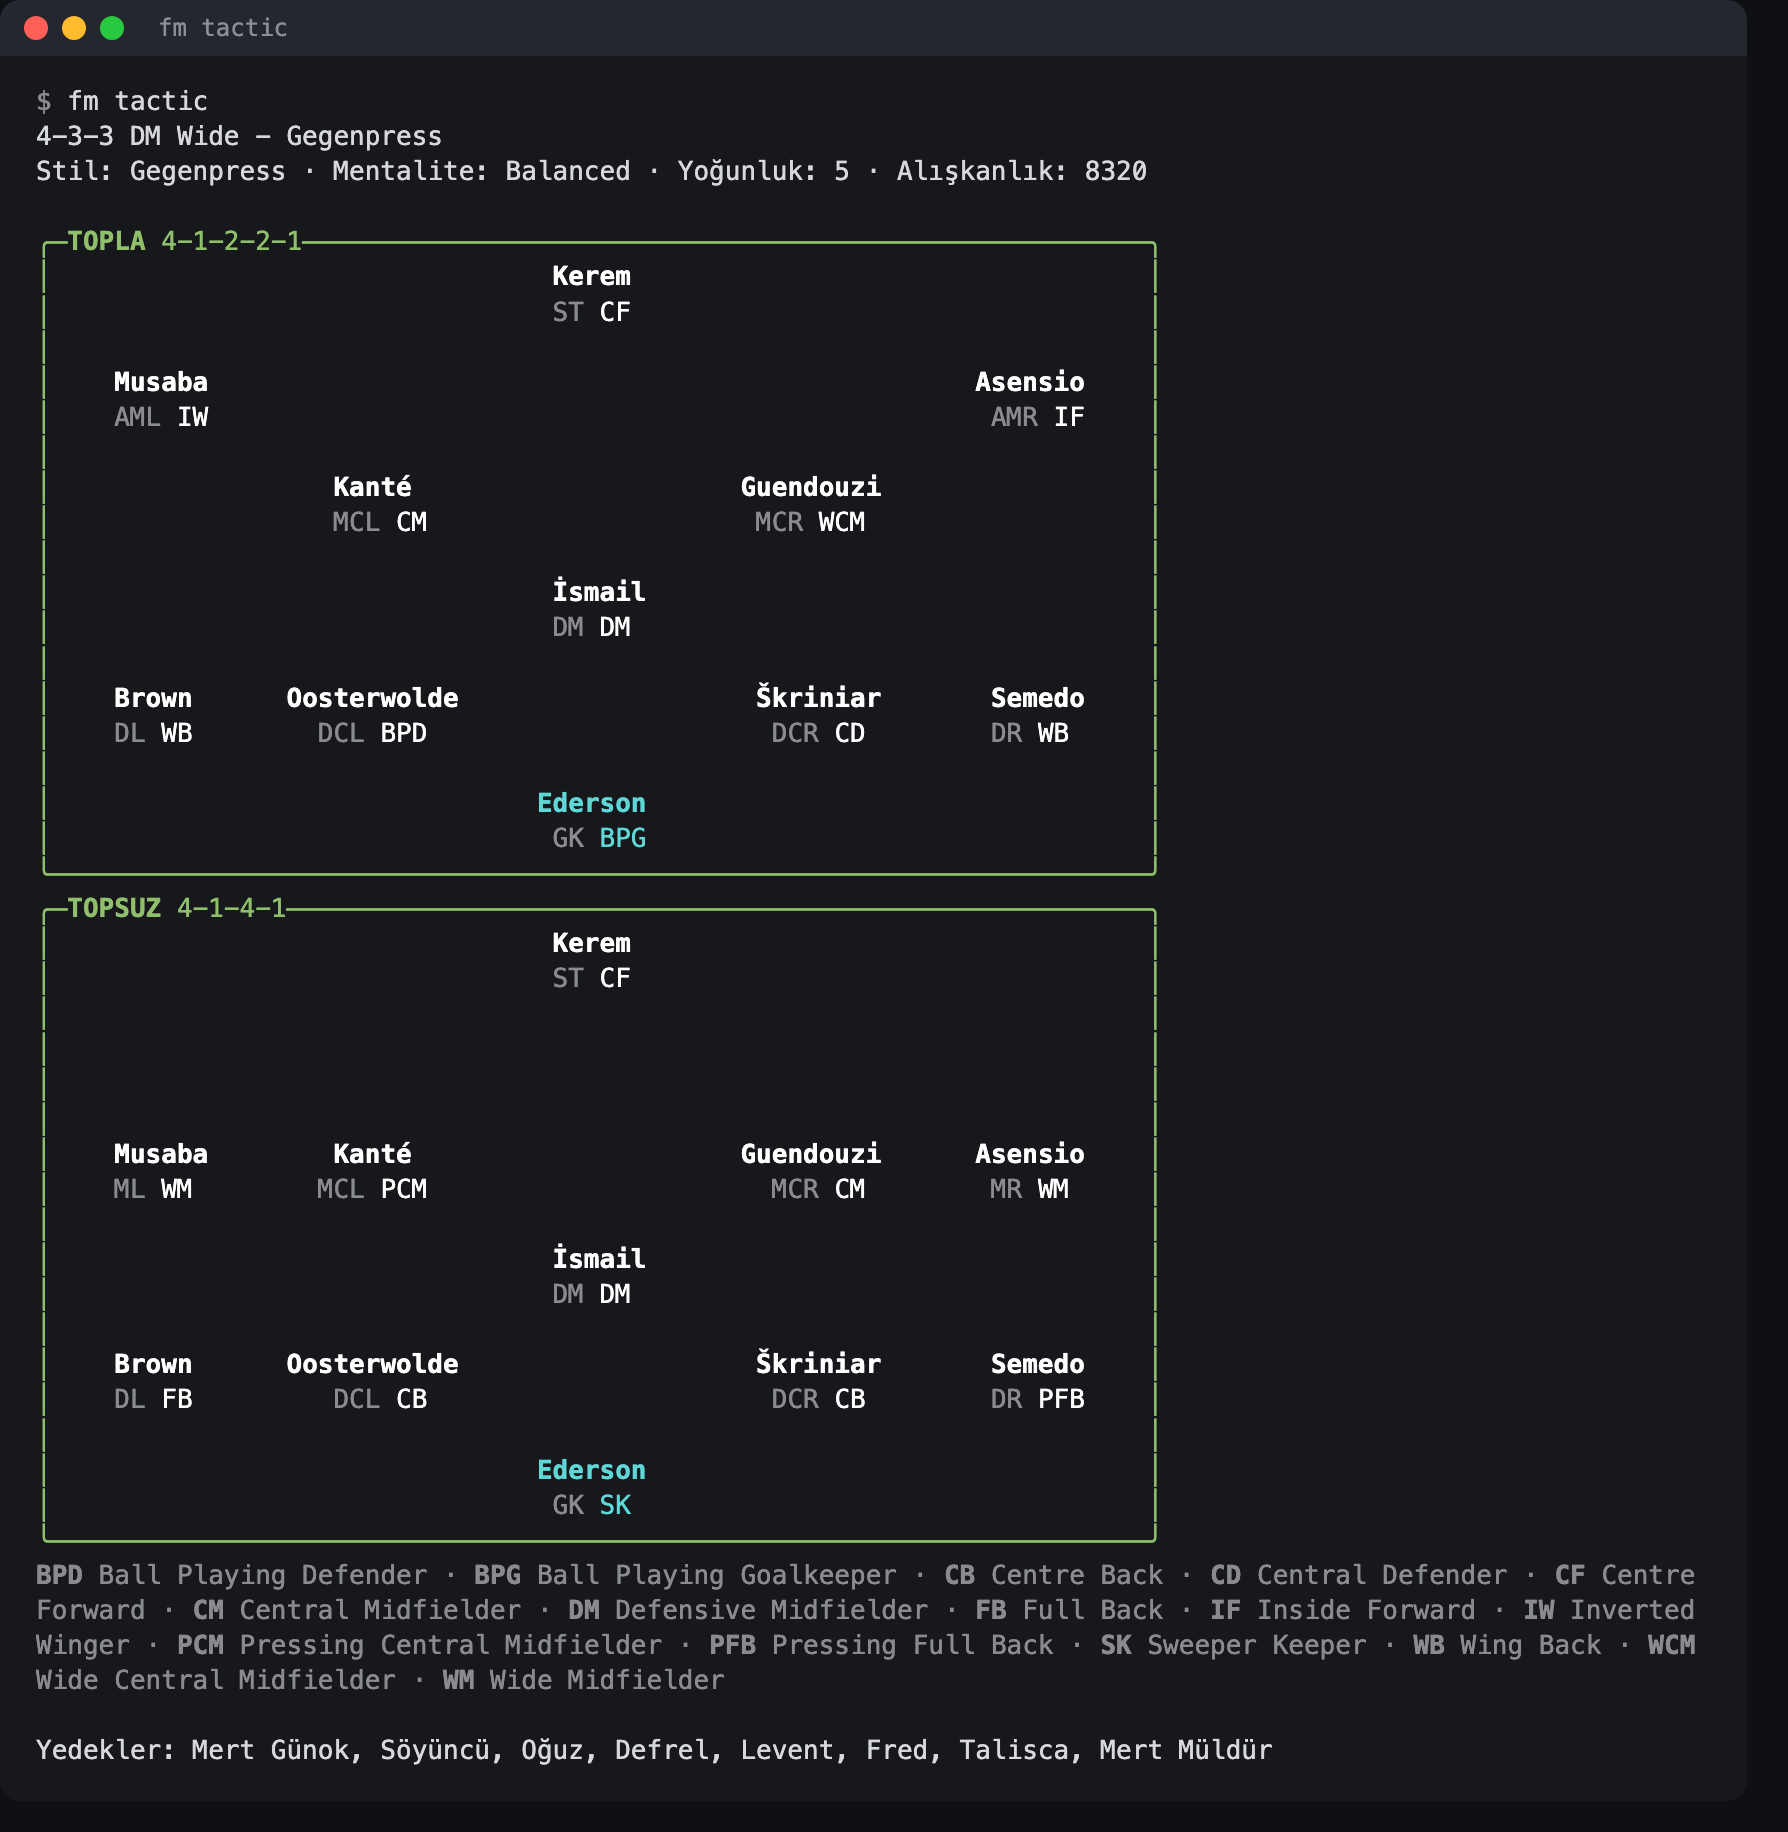
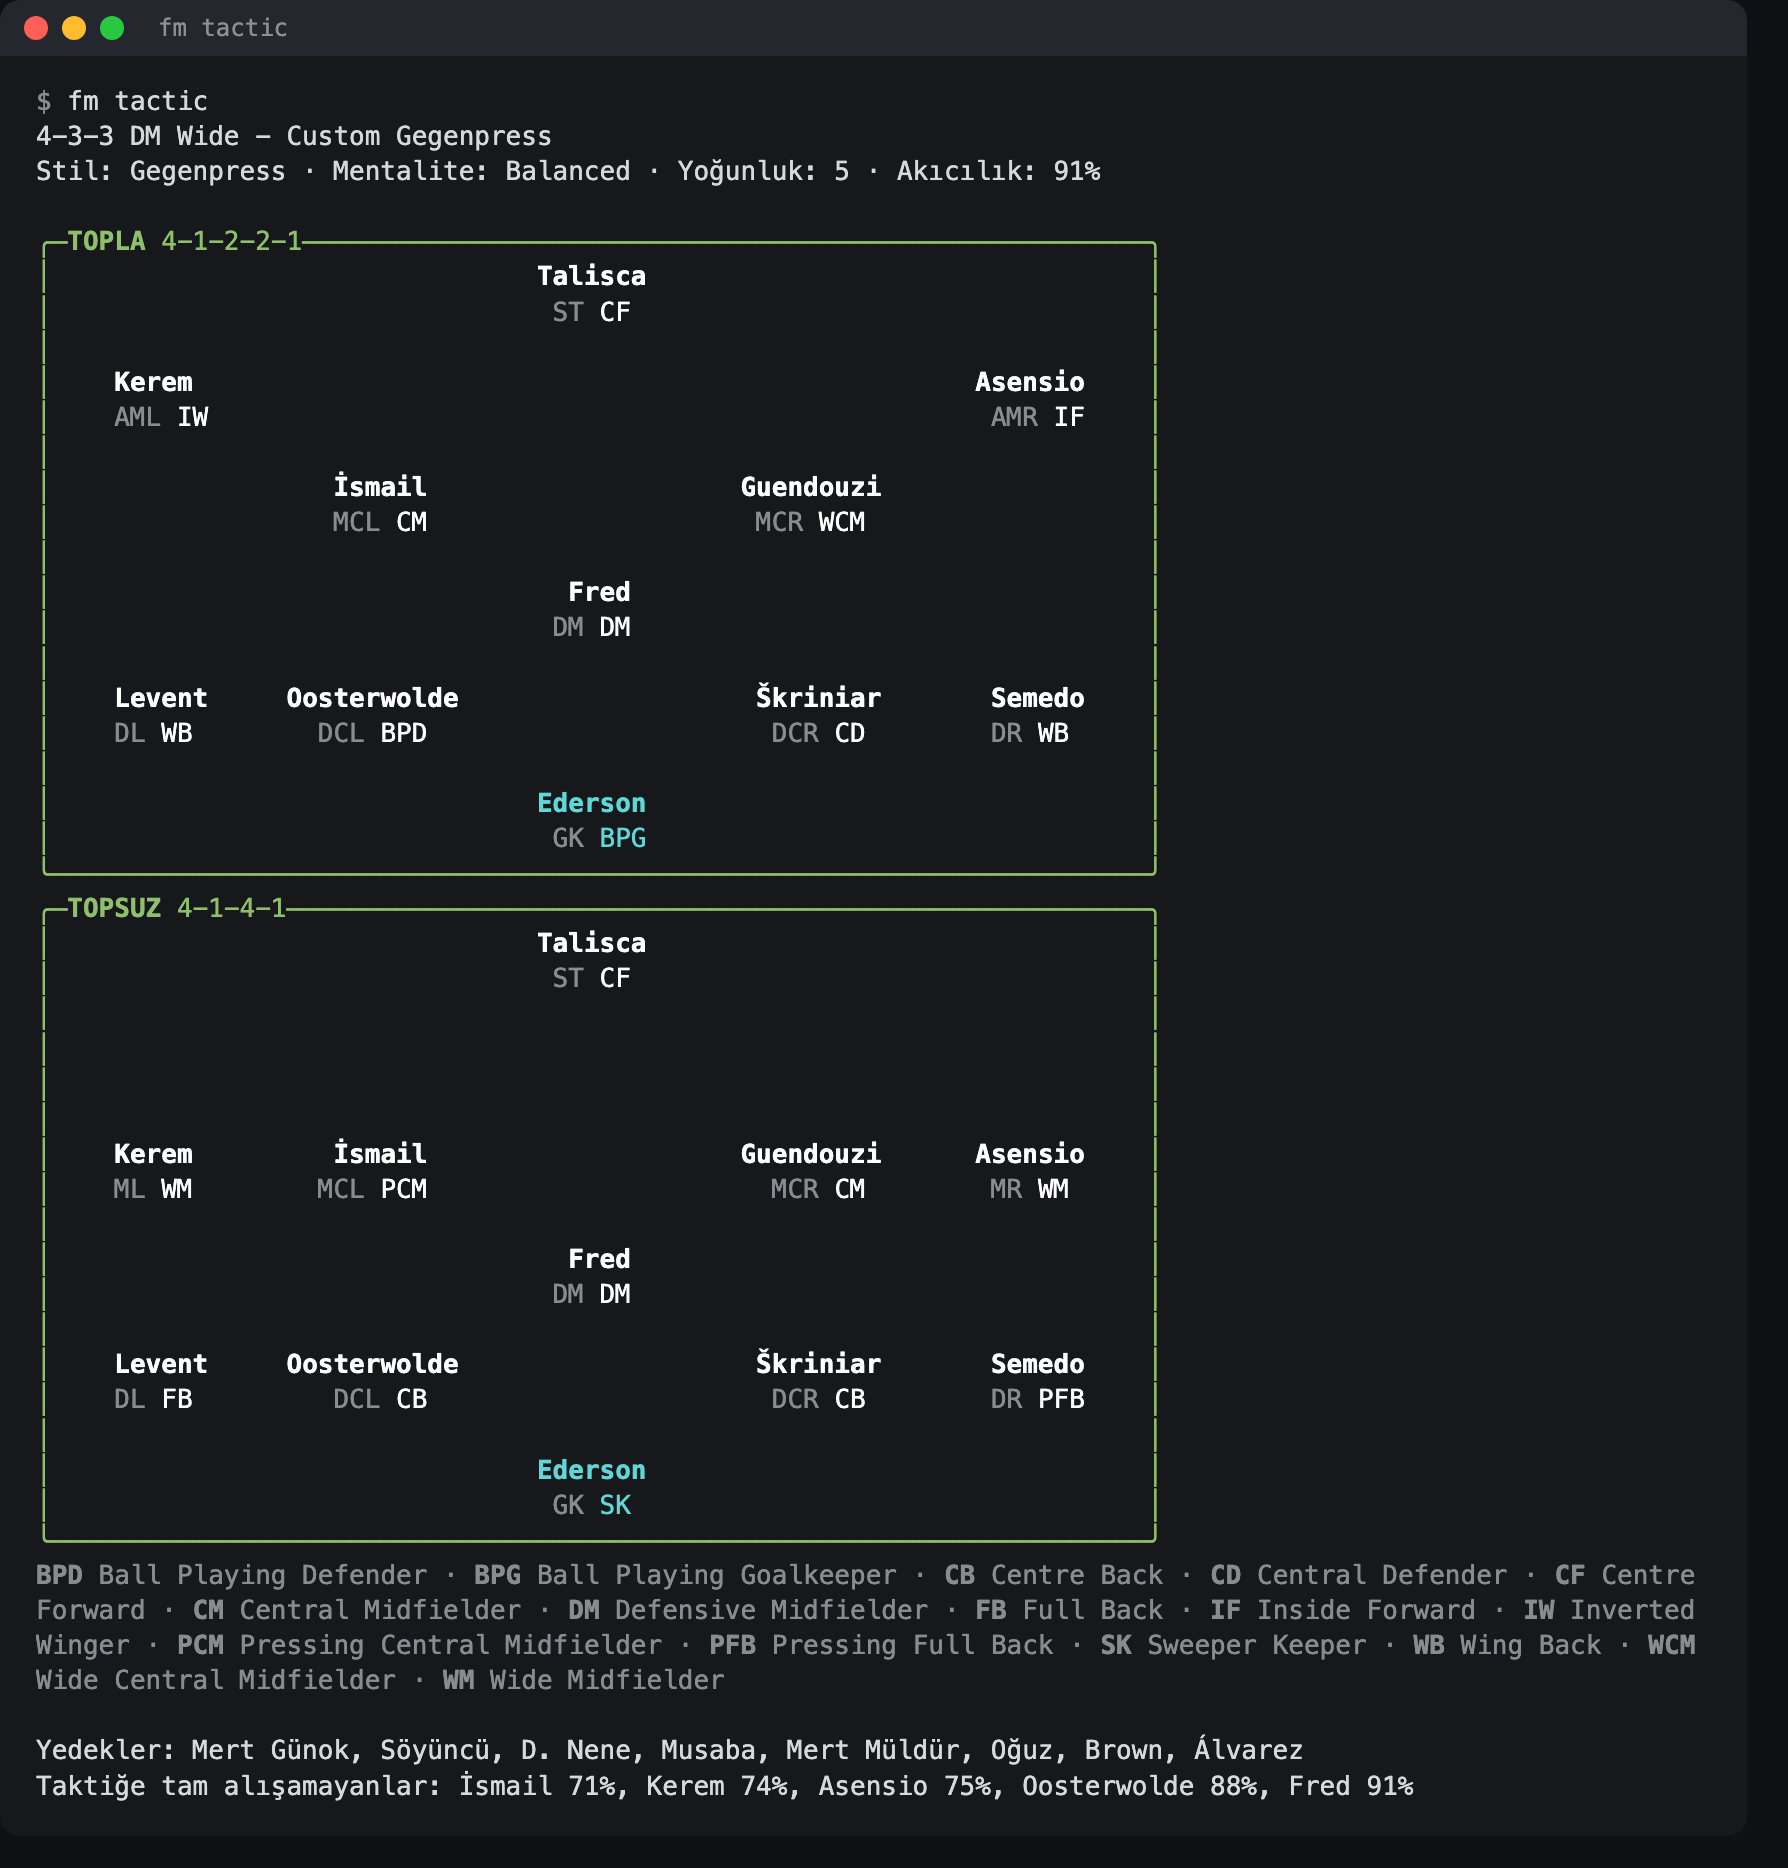
docs: familiarity, positional ratings, injury history and season stats

diff --git a/docs/FINDINGS.md b/docs/FINDINGS.md
@@ -2929,6 +2929,37 @@ kutularından açılıyor:
   buton), Board Requests tablosu (Request · Status · Started · Outcome · Completed; şimdilik boş).
   Talep etmek denenmedi.
 
+## 8.80 Taktik akıcılığı, mevki puanları, sakatlık geçmişi, sezon istatistikleri (10 Ekim)
+
+- **Akıcılık** 10000 üzerinden tutuluyor. Takımınki `Tactic.TacticalFamiliarity` (9089 → %91; §8.47'de
+  "alışkanlık" diye geçen sayı bu). Oyuncununki taktik ekranının altındaki kadro tablosunun Familiarity
+  kolonunda: `…binding.Player.TacticalFamiliarity.AverageFamiliarity`. Bu bir `PlayerTacticalFamiliarityReference`;
+  ama `/pull` ile `Human.Team.Players.<n>.TacticalFamiliarity` boş dönüyor, çünkü değer satırın mevki/diziliş
+  bağlamına bağlı. Okurken satırdan yukarı çıkılıyor; aynı satırda iki seviye aşağıda `PlayerIndex` var.
+  Tablo planlayıcıdan biraz sonra doluyor, ilk okumada kolon boş olabiliyor. Bağlanan yalnızca on bir
+  oyuncu. Ayrıntılı döküm (`TacticalFamiliarityDetails`: mentalite, tempo, genişlik…) "Familiarity"
+  butonunun üzerine gelince açılan ipucunda; tıklamak açmıyor, okunmadı.
+- **Mevki puanları**: `PersonReference.PositionalAbilities`, 15 elemanlı bir liste; her eleman
+  `DisplayValue` ("DM", "M (L)"…) ve `PropertyValue` (1–20) taşıyan bir `DynamicReference`. İkinci
+  elemanın adı boş (hep 1).
+- **Sakatlık geçmişi**: `PersonReference.InjuriesHistory` → `PlayerInjuryReference` (`InjuryDescription`,
+  `InjuryDate` paketli GameDate, `InjuryDurationDays`, `IsActive`). Özet alanları `InjuriesThisSeason`,
+  `InjuriesLastSeason`, `InjuriesPercentageMissedString` ("0% missed").
+- Kadro dışındaki oyuncu için bir yol lazımdı: `/player` artık sayfadaki `Person` değerini
+  `fmcli.card.p<isim karması>` yoluna koyuyor ve `Path` alanında veriyor; `/pull` oradan okuyor.
+  Oyuncu başına ayrı yol açılıyor, çünkü başkası için tekrar kullanılan yol eski oyuncunun değerlerini
+  veriyor (§8.68).
+- Bu çağrıyla bağlanan bir liste aynı karede boş geliyor ("is not a list"); `Fm.Pull` bunu tekrar deniyor.
+- **Sezon istatistikleri** ekransız: `Human.Team.Players` üzerinde `ClubAppearancesThisSeason`, `ClubGoalsThisSeason`,
+  `ClubAssistsThisSeason`, `ClubAverageRatingThisSeason`, ayrıca `StartingAppearances`, `SubAppearances`,
+  `Minutes`, `YellowCards`, `RedCards` (`valueCount`; `/pull`'da `Minutes.PropertyValue` gibi noktalı
+  prop çalışıyor). ⚠ "Club" oyuncunun şu an oynadığı kulüp: kiralıktakilerin rakamları kiralık
+  kulübünki. Kiralıkta olan `LoanClub.Name` ile ayrılıyor; bize kiralananın `LoanClub`'ı biziz.
+- İki eski yarış daha çıktı: (1) oyuncu sayfasında isim, özelliklerden ve sözleşmeden önce bağlanıyor;
+  komut artık özellikler ve lig kariyeri gelene kadar en çok 4 sn bekliyor. (2) Arama kutusu yeni
+  açılınca önceki aramanın sonuçları biraz geç beliriyor ve yeni sonuç sanılıyordu ("Arda Güler" →
+  Fred Onyedinma); "önceki" hali artık liste durulunca alınıyor (6/6 temiz).
+
 ## 9. Sıradaki adımlar
 
 Yapılacaklar listesi artık burada tutulmuyor: sıralı iş listesi ve günlük `PLAN.md`'de

diff --git a/PLAN.md b/PLAN.md
@@ -173,10 +173,10 @@ Geliştirme değil, yön. Sıradaki işler bunlara göre şekillenecek.
 - [x] `fm player <isim>` — kimlik, sözleşme, alışkanlıklar, 36 özellik (§8.38); kadro dışındakiler aramayla
 - [x] Öznitelikler (teknik / zihinsel / fiziksel / duran top; kalecide kalecilik)
 - [ ] Gizli öznitelikler (scout görüşü kadarıyla)
-- [ ] Pozisyon yetkinlikleri
-- [~] Sakatlık durumu — `fm player` sakatlığı, `fm squad --view Injuries` listeyi veriyor; geçmiş yok
+- [x] Pozisyon yetkinlikleri — `fm player` mevki başına 1–20 puanı veriyor (§8.80)
+- [x] Sakatlık durumu — `fm player` sakatlığı ve geçmişi (§8.80), `fm squad --view Injuries` listeyi veriyor
 - [~] Sözleşme: maaş, bitiş tarihi, oynama süresi `fm player`'da; madde ve bonuslar yok
-- [~] Form — `fm squad --fitness` maç formunu veriyor; maç ratingleri ve sezon istatistikleri yok
+- [~] Form — `fm squad --fitness` maç formunu, `fm squad --stats` sezon istatistiklerini veriyor (§8.80); maç maç puanlar yok
 - [x] Kariyer geçmişi, transfer geçmişi — `fm player <isim> --career` (§8.63)
 - [ ] Gelişim grafiği / potansiyel
 - [~] Milli takım — `fm player` milli maç ve golü veriyor; davet / kadro durumu yok
@@ -210,7 +210,7 @@ Geliştirme değil, yön. Sıradaki işler bunlara göre şekillenecek.
 - [~] Kaptan / yardımcı kaptan — `fm captains`: okuma, kaptan değişimi; yardımcı yalnızca boşken (§8.58)
 - [~] Taktik kaydet / yükle / kopyala — `fm tactic copy`, `fm tactic clear <n> --yes` (§8.77); dosyaya Save / Load… yok
 - [x] Rakip talimatları — `fm opposition`: tablo, yardımcının önerisi, temizle, oyuncu başına ayar (§8.49)
-- [ ] Taktik akıcılığı (familiarity)
+- [x] Taktik akıcılığı (familiarity) — `fm tactic` takımın ve on birin yüzdesi (§8.80); evre evre döküm yok
 
 ---
 
@@ -492,6 +492,12 @@ Geliştirme değil, yön. Sıradaki işler bunlara göre şekillenecek.
 - **Kulübün kalanı** (FINDINGS §8.79): `fm finances gelir|gider [dönem]` kalem kalem, `fm finances` sponsor
   anlaşmalarını tek tek veriyor, `fm supporters` (beklentiler, seyirci, profil), `fm facilities` (stadyum,
   antrenman, altyapı). Yönetim kartı okundu ama talepte bulunmak eylem — ayrı iş.
+
+
+- **Kolay okumalar (1. grup, öğleden sonra)** (FINDINGS §8.80): `fm tactic` akıcılığı yüzde olarak veriyor, takımın
+  ve on birin ("Taktiğe tam alışamayanlar: İsmail 71%…"); `fm player` mevki puanları ve sakatlık geçmişi (kadro dışı
+  oyuncuda da); `fm squad --stats` sezon istatistikleri, kiralıktakiler ayrı. Yan ürün: oyuncu sayfası artık
+  özellikler bağlanmadan okunmuyor; arama, önceki aramanın geç beliren sonuçlarını yeni sanmıyor.
 
 ### 2026-10-09 (gece, otonom)
 

diff --git a/docs/manual/KILAVUZ.md b/docs/manual/KILAVUZ.md
@@ -140,6 +140,12 @@ Moral, takım içi hiyerarşi ve sosyal grup:
 
 ![fm squad --morale](img/squad-morale.png)
 
+Sezon istatistikleri: maç (ilk on bir, yedekten girdikleri parantezde), dakika, gol, asist,
+ortalama puan, kart; en çok oynayan önce. Altında hiç oynamayanlar ve kiralıktakiler (kulübü ve
+orada oynadığı maç).
+
+![fm squad --stats](img/squad-stats.png)
+
 Oyundaki kadro tablosunun başka görünümleri de var: `fm squad --views` listeler,
 `fm squad --view "<ad>"` o görünümün kolonlarını gösterir.
 
@@ -185,7 +191,17 @@ fm depth
 ## 6. Oyuncu kartı — `player`, `search`
 
 `fm player <isim>` oyuncunun kartını açar: kimlik, sözleşme, sahadaki mevkisi ve renkli
-özellikleri. Kadronda olmayan bir oyuncuyu da arayıp bulur.
+özellikleri. Kadronda olmayan bir oyuncuyu da arayıp bulur. Kartın altında hangi mevkide ne
+kadar iyi olduğu (oyunun 1-20 puanı: 20 doğal mevki, 15 ve üstü usta, 10 ve üstü yeterli) ve
+sakatlık geçmişi var: kaç sakatlık, bu ve geçen sezon kaç, son beşi tarihiyle ve süresiyle.
+
+```
+$ fm player Fred
+Mevkiler (20 doğal, 15+ usta, 10+ yeterli): DM 20 · M (C) 17 · AM (C) 15 · M (L) 10 · AM (L) 10
+Sakatlık geçmişi: 7 sakatlık · bu sezon 0, geçen sezon 2 · kaçırdığı maç: 0%
+  Mart 2025  A moderate hamstring strain, 14 gün
+  Temmuz 2024  Sprained knee ligaments, 17 gün
+```
 
 ![fm player Ederson](img/player.png)
 
@@ -217,7 +233,9 @@ $ fm player kerem --career
 ## 7. Taktik — `tactic`
 
 Taktiği iki saha olarak çizer: topla oynarken ve topsuzken. Her mevkide oyuncu, mevki kısaltması
-ve rolü var; rollerin açılımı altta.
+ve rolü var; rollerin açılımı altta. Başlıktaki **akıcılık**, takımın bu taktiğe ne kadar
+alıştığı (oyunun taktik ekranındaki çubuk); altta taktiği henüz tam bilmeyen oyuncular yüzdeleriyle,
+en az bilen önce ("Taktiğe tam alışamayanlar: İsmail 71%, Kerem 74%…").
 
 ![fm tactic](img/tactic.png)
 

diff --git a/README.md b/README.md
@@ -65,9 +65,10 @@ squad           kadroyu bas
   --fitness     kondisyon ve maç formu, en yorgun önce
   --u19         altyapı (U19) kadrosu
   --morale      moral, hiyerarşi ve sosyal grup
+  --stats       sezon istatistikleri: maç, dakika, gol, asist, ortalama puan, kart
   --views       kadro tablosunun bütün görünümlerini listele
   --view "<x>"  o görünümün kolonlarını bas (Contract, Injuries, Playing Time…)
-player <isim>   oyuncu sayfası: kimlik, sözleşme, alışkanlıklar, özellikler (kadro dışıysa aramayla bulur)
+player <isim>   oyuncu sayfası: kimlik, sözleşme, alışkanlıklar, özellikler, mevki puanları, sakatlık geçmişi (kadro dışıysa aramayla bulur)
   --actions     oyuncu için yapılabilecekler: teklif, kısa liste, scout, menajer…
   --career      sezon sezon kariyeri: kulüp, geliş (bonservis / kiralık), maç, gol, puan
 search <metin>  oyunun aramasında bul: oyuncu, kulüp, turnuva…
@@ -140,7 +141,7 @@ register        turnuva kadro listesi: kim listede, yetişme kotaları, kurallar
   --auto        önce yardımcı seçsin;  --send: gönder (kurallar tutunca)
 numbers         forma numaralarını gönder (aynı şekilde)
 setpieces new [<no> …]      duran top rutinlerini kur (altı soru; yazmadığını terminalde sorar)
-tactic          takımın taktiği: stil, mentalite, on bir mevki ve roller
+tactic          takımın taktiği: stil, mentalite, akıcılık, on bir mevki ve roller
 tactic mentality [<x>]      mentaliteyi göster ya da değiştir
 tactic style [<x>]          oyun stilini göster ya da değiştir
 tactic pick                 ilk 11'i oyuna seçtir (Quick Pick)
